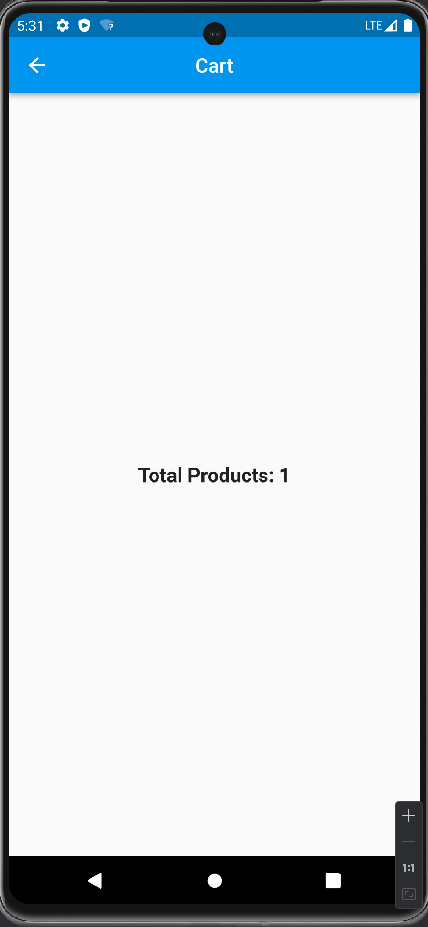
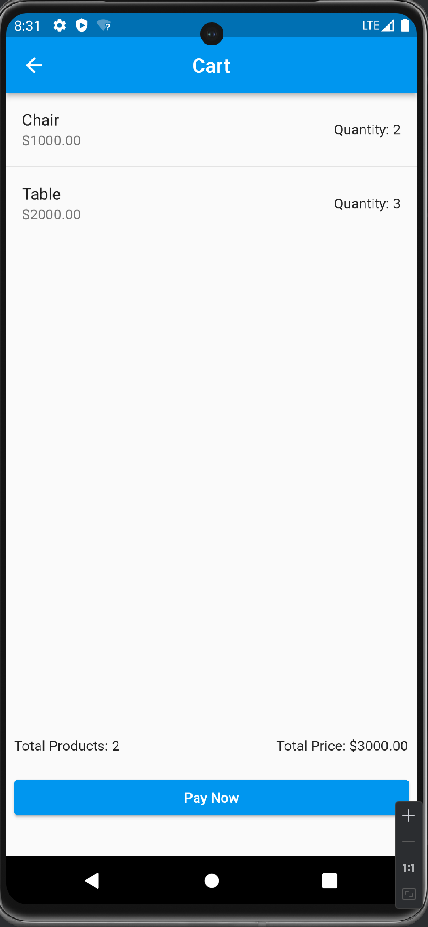
Re-Design Cart Page

diff --git a/lib/cart_page.dart b/lib/cart_page.dart
@@ -7,19 +7,64 @@ class CartPage extends StatelessWidget {
 
   @override
   Widget build(BuildContext context) {
+    double total = 0;
+    for (int i = 0; i < totalProduct.length; i++) {
+      total += totalProduct[i].price;
+    }
     return Scaffold(
       appBar: AppBar(
         title: const Text('Cart'),
         centerTitle: true,
       ),
-      body: Center(
-        child: Text(
-          "Total Products: ${totalProduct.length}",
-          style: const TextStyle(
-            fontSize: 20,
-            fontWeight: FontWeight.bold,
+      body: Column(
+        children: [
+          Expanded(
+            flex: 5,
+            child: ListView.separated(
+              itemBuilder: (context, index) => ListTile(
+                title: Text(totalProduct[index].productName),
+                subtitle:
+                    Text("\$${totalProduct[index].price.toStringAsFixed(2)}"),
+                trailing: Text("Quantity: ${totalProduct[index].qyt}"),
+              ),
+              itemCount: totalProduct.length,
+              separatorBuilder: (context, _) => const Divider(
+                height: 2,
+                color: Colors.black54,
+              ),
+            ),
           ),
-        ),
+          const Divider(
+            height: 2,
+            color: Colors.black54,
+          ),
+          Expanded(
+            flex: 1,
+            child: Padding(
+              padding: const EdgeInsets.all(8.0),
+              child: Column(
+                children: [
+                  Row(
+                    mainAxisAlignment: MainAxisAlignment.spaceBetween,
+                    crossAxisAlignment: CrossAxisAlignment.start,
+                    children: [
+                      Text("Total Products: ${totalProduct.length}"),
+                      Text("Total Price: \$${total.toStringAsFixed(2)}"),
+                    ],
+                  ),
+                  Container(
+                    margin: EdgeInsets.only(top: 20),
+                    width: double.infinity,
+                    child: ElevatedButton(
+                      onPressed: () {},
+                      child: const Text("Pay Now"),
+                    ),
+                  ),
+                ],
+              ),
+            ),
+          )
+        ],
       ),
     );
   }
